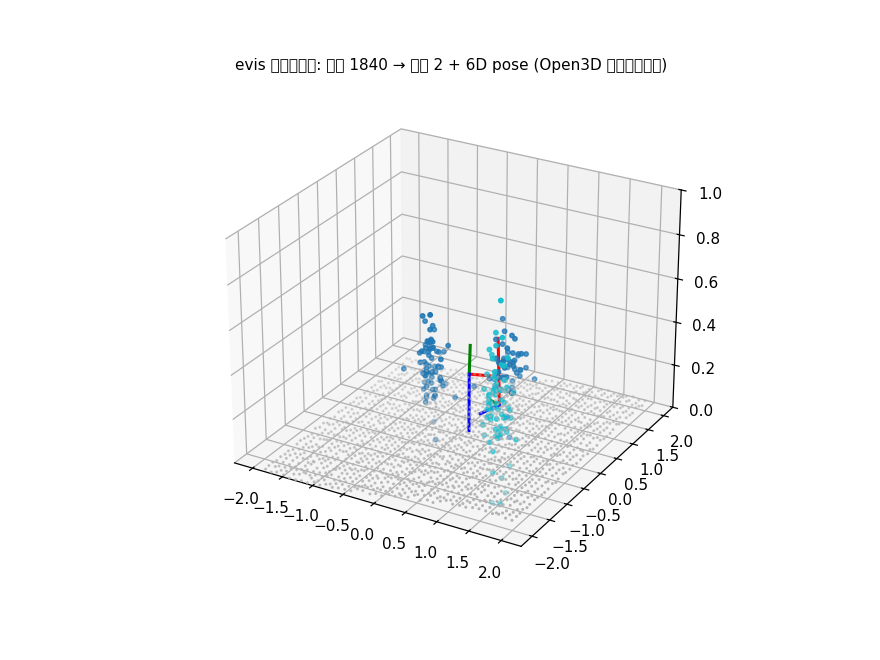
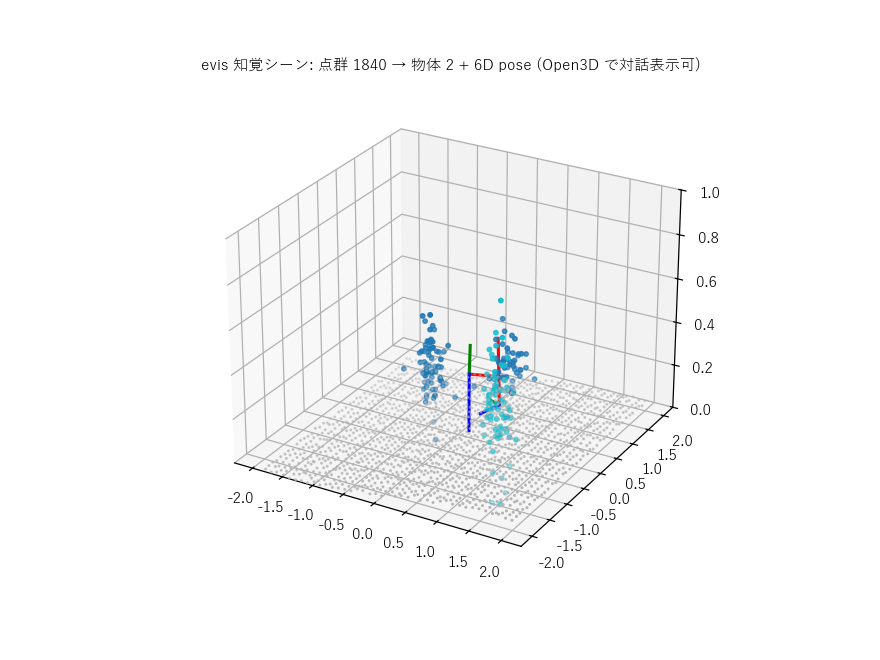
auto: UNIFIED_API_REQUIREMENTS.md 編集前 (2026-08-18 19:35)

diff --git a/spikes/viewer3d_demo.py b/spikes/viewer3d_demo.py
@@ -21,6 +21,12 @@ sys.path.insert(0, os.path.dirname(__file__))
 
 import matplotlib
 matplotlib.use("Agg")
+from matplotlib import font_manager
+for _jp in ("Yu Gothic", "Meiryo", "MS Gothic"):
+    if _jp in {f.name for f in font_manager.fontManager.ttflist}:
+        matplotlib.rcParams["font.family"] = _jp
+        break
+matplotlib.rcParams["axes.unicode_minus"] = False
 import matplotlib.pyplot as plt  # noqa: E402
 import viewer3d as v3d  # noqa: E402
 import fullseye as fs  # noqa: E402
